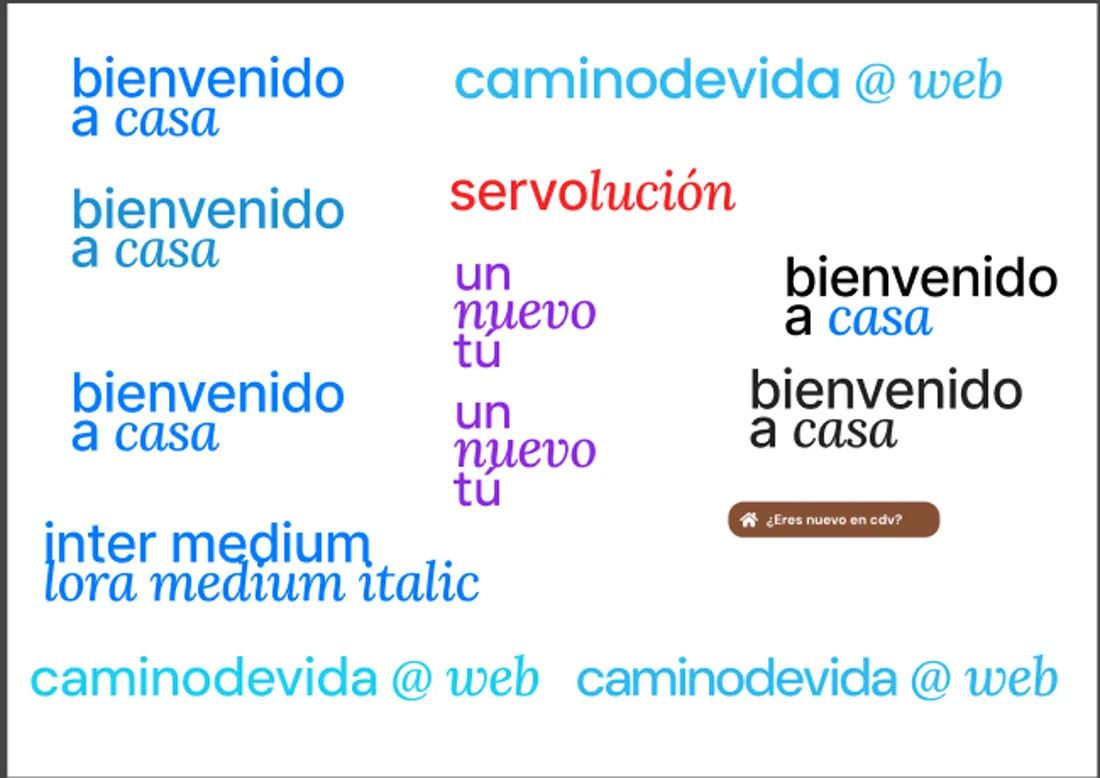
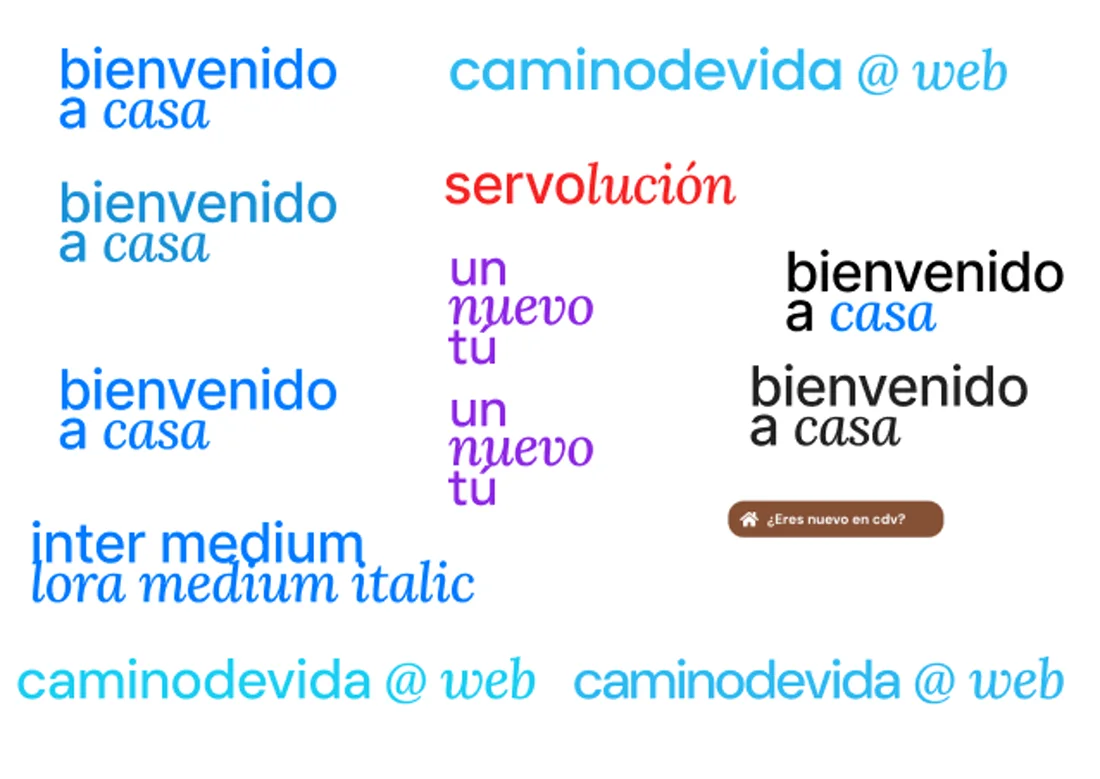
Camino de Vida: the type pairing was a moodboard; only Inter stayed

diff --git a/components/CaseCdv.tsx b/components/CaseCdv.tsx
@@ -62,9 +62,9 @@ function content(lang: Lang): CaseContent {
   );
 
   const type = (
-    <Frame className="cols-wide" caption={es ? "Inter para leer, Lora itálica para la voz. Un solo sistema para la web, las campañas y cada ministerio." : "Inter to read, Lora italic for the voice. One system for the site, the campaigns and every ministry."}>
-      <Pane label={es ? "exploración tipográfica" : "type exploration"}><Img src="type.webp" alt={es ? "Pruebas de bienvenido a casa, servolución y un nuevo tú en Inter y Lora itálica" : "Tests of bienvenido a casa, servolución and un nuevo tú in Inter and Lora italic"} /></Pane>
-      <Pane label={es ? "en el teléfono" : "on the phone"}><Img src="home-mobile.webp" alt={es ? "La home en un teléfono" : "The home on a phone"} /></Pane>
+    <Frame className="cols-wide" caption={es ? "El moodboard probó Inter con Lora itálica y colores por ministerio. Se quedó solo Inter, sobre un fondo cálido." : "The moodboard tried Inter with Lora italic and a color per ministry. Only Inter stayed, on a warm ground."}>
+      <Pane label={es ? "moodboard · descartado" : "moodboard · ruled out"}><Img src="type.webp" alt={es ? "Moodboard: bienvenido a casa, servolución y un nuevo tú en Inter y Lora itálica, en varios colores" : "Moodboard: bienvenido a casa, servolución and un nuevo tú in Inter and Lora italic, in several colors"} /></Pane>
+      <Pane accent label={es ? "final · solo Inter" : "final · Inter only"}><Img src="home-mobile.webp" alt={es ? "La home en un teléfono" : "The home on a phone"} /></Pane>
     </Frame>
   );
 
@@ -86,7 +86,7 @@ function content(lang: Lang): CaseContent {
       ["role", "Volunteer product designer: information architecture, home and new pages"],
       ["team", "The church's communications team and me"],
       ["timeline", "2025–2026"],
-      ["scope", "Sitemap, home, five page wireframes and a type system"],
+      ["scope", "Sitemap, home and five page wireframes"],
       ["status", "The new home is live; the new main menu is designed and on hold"],
     ],
     chips: ["case study", "volunteer", "home live"], okChip: 2,
@@ -96,7 +96,7 @@ function content(lang: Lang): CaseContent {
       list: ["ministries for kids, teens and young adults sat inside About → Leadership → Ministries", "they were listed by internal names (GetUp cdv, Punto cdv) that only regulars know", "an annual report sat in the main menu as “2024”, and campuses and times had no entry at all"],
       end: "Most people arrive with one question: {{where and when can I go, and is there something for me or my kids?}}",
     },
-    role: "{{I led the information architecture and designed the home and the new pages}}: the map of the current site, the proposal, the tree test, the wireframes and the type system. The communications team decided what mattered most and reviewed every version.",
+    role: "{{I led the information architecture and designed the home and the new pages}}: the map of the current site, the proposal, the tree test and the wireframes. The communications team decided what mattered most and reviewed every version.",
     research: {
       items: ["A map of the current site, item by item, to see where things really lived.", "Hotjar heatmaps and session recordings: what people scrolled to and clicked under the banner.", "Conversations with the communications team and the church about what matters most to someone new.", "A tree test of the new menu on UXtweak."],
       extraTitle: "the order of the work",
@@ -106,7 +106,7 @@ function content(lang: Lang): CaseContent {
       { t: "what people look for goes right under the banner", because: "Hotjar showed people hunting below the banner, and the church named the same things: campuses and times, growing, small groups and baptism. They became four doors.", fig: doors },
       { t: "ministries by who they're for, then by name", because: "“Teens | GetUp” tells a parent what it is; “GetUp cdv” only tells a regular. Ministries moved out of Leadership into Conoce CDV, one level down.", ruled: "keeping the internal names alone. They are the church's identity, so they stayed, after the audience.", fig: sitemap },
       { t: "from twelve sections to six", because: "my first proposal had twelve top-level sections with clean URLs and redirects. After the tree test and the team's review, six were enough, and a phone menu can show six.", ruled: "the twelve-section proposal. Every section was justified, but together they were too many doors." },
-      { t: "one type system for every voice", because: "each ministry had its own look. Inter carries the reading and Lora italic the voice, so a campaign can feel its own and still belong.", fig: type },
+      { t: "one typeface, so the content does the talking", because: "each ministry already brings its own logo and campaign art. A single sans, Inter, keeps the site calm around them and reads well on a phone.", ruled: "pairing Inter with a serif italic and a color per ministry. It looked lively in the moodboard, but it competed with the ministries' own art.", fig: type },
     ],
     decisionsTail: wires,
     validation: {
@@ -125,7 +125,7 @@ function content(lang: Lang): CaseContent {
       ["rol", "Diseñador de producto voluntario: arquitectura de información, home y páginas nuevas"],
       ["equipo", "El equipo de comunicaciones de la iglesia y yo"],
       ["duración", "2025–2026"],
-      ["alcance", "Sitemap, home, wireframes de cinco páginas y un sistema tipográfico"],
+      ["alcance", "Sitemap, home y wireframes de cinco páginas"],
       ["estado", "La home nueva está en vivo; el menú principal nuevo está diseñado y en pausa"],
     ],
     chips: ["caso de estudio", "voluntariado", "home en vivo"], okChip: 2,
@@ -135,7 +135,7 @@ function content(lang: Lang): CaseContent {
       list: ["los ministerios de niños, adolescentes y jóvenes estaban en Acerca de → Liderazgo → Ministerios", "aparecían con nombres internos (GetUp cdv, Punto cdv) que solo conoce quien ya va", "un informe anual estaba en el menú principal como “2024”, y los campus y horarios no tenían entrada"],
       end: "La mayoría llega con una pregunta: {{¿dónde y cuándo puedo ir, y hay algo para mí o para mis hijos?}}",
     },
-    role: "{{Lideré la arquitectura de información y diseñé la home y las páginas nuevas}}: el mapa del sitio actual, la propuesta, el tree test, los wireframes y el sistema tipográfico. El equipo de comunicaciones decidió qué era lo más importante y revisó cada versión.",
+    role: "{{Lideré la arquitectura de información y diseñé la home y las páginas nuevas}}: el mapa del sitio actual, la propuesta, el tree test y los wireframes. El equipo de comunicaciones decidió qué era lo más importante y revisó cada versión.",
     research: {
       items: ["Un mapa del sitio actual, ítem por ítem, para ver dónde vivía cada cosa.", "Mapas de calor y grabaciones de Hotjar: hasta dónde bajaba la gente y qué tocaba debajo del banner.", "Conversaciones con el equipo de comunicaciones y la iglesia sobre qué es lo más importante para alguien nuevo.", "Un tree test del menú nuevo en UXtweak."],
       extraTitle: "el orden del trabajo",
@@ -145,7 +145,7 @@ function content(lang: Lang): CaseContent {
       { t: "lo que la gente busca va justo debajo del banner", because: "Hotjar mostró a la gente buscando debajo del banner, y la iglesia nombró lo mismo: campus y horarios, crecer, grupos pequeños y bautismo. Se volvieron cuatro accesos.", fig: doors },
       { t: "ministerios por para quién son, y luego por nombre", because: "“Adolescentes | GetUp” le dice a un papá qué es; “GetUp cdv” solo se lo dice a quien ya va. Los ministerios salieron de Liderazgo a Conoce CDV, un nivel abajo.", ruled: "dejar solo los nombres internos. Son la identidad de la iglesia, así que se quedaron, después de la audiencia.", fig: sitemap },
       { t: "de doce secciones a seis", because: "mi primera propuesta tenía doce secciones con URLs limpias y redirecciones. Tras el tree test y la revisión del equipo, seis alcanzaban, y un menú de teléfono puede mostrar seis.", ruled: "la propuesta de doce secciones. Cada una estaba justificada, pero juntas eran demasiadas puertas." },
-      { t: "un sistema tipográfico para todas las voces", because: "cada ministerio tenía su propio look. Inter lleva la lectura y Lora itálica la voz, así una campaña se siente propia y sigue siendo parte de la casa.", fig: type },
+      { t: "una sola tipografía, para que hable el contenido", because: "cada ministerio ya trae su propio logo y arte de campaña. Una sola sans, Inter, deja la web tranquila alrededor y se lee bien en el teléfono.", ruled: "combinar Inter con una serif itálica y un color por ministerio. Se veía vivo en el moodboard, pero competía con el arte de cada ministerio.", fig: type },
     ],
     decisionsTail: wires,
     validation: {
